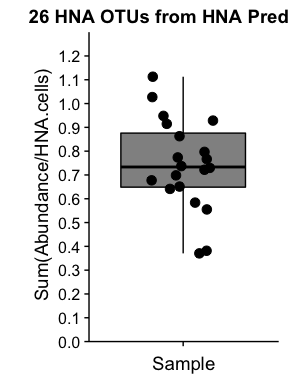
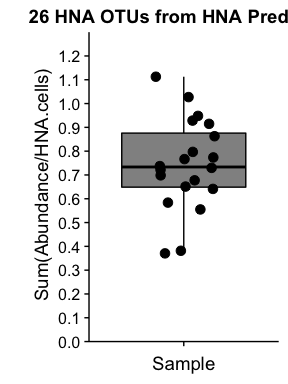
Fixing typo

diff --git a/Final/OutliersRemoved/OTU_analysis.md b/Final/OutliersRemoved/OTU_analysis.md
@@ -129,7 +129,7 @@ AbsAbund_OTUs_26 <-  absolute_otu %>%
 
 
 # Plot the absolute abundance data 
-ggplot(abs_abund_OTUs_26, aes(x = reorder(OTU, Phylum), y = Abs_Abund, fill = Phylum, color = Phylum)) +
+ggplot(AbsAbund_OTUs_26, aes(x = reorder(OTU, Phylum), y = Abs_Abund, fill = Phylum, color = Phylum)) +
   geom_boxplot(alpha = 0.5, outlier.shape = NA) +
   geom_jitter(width = 0.2, size = 3) +
   #scale_y_continuous(expand = c(0,0), limits = c(0, 2.5e+5)) +
@@ -146,10 +146,10 @@ ggplot(abs_abund_OTUs_26, aes(x = reorder(OTU, Phylum), y = Abs_Abund, fill = Ph
         axis.text.x = element_text(angle = 30, hjust = 1, vjust = 1))
 ```
 
-    ## Error in ggplot(abs_abund_OTUs_26, aes(x = reorder(OTU, Phylum), y = Abs_Abund, : object 'abs_abund_OTUs_26' not found
+<img src="OTU_analysis_files/figure-markdown_github/HNAotus-26-1.png" style="display: block; margin: auto;" />
 
 ``` r
-ggplot(abs_abund_OTUs_26, aes(x = reorder(OTU, Phylum), y = OTU_fraction_HNA, fill = Phylum, color = Phylum)) +
+ggplot(AbsAbund_OTUs_26, aes(x = reorder(OTU, Phylum), y = OTU_fraction_HNA, fill = Phylum, color = Phylum)) +
   geom_boxplot(alpha = 0.5, outlier.shape = NA) +
   geom_jitter(width = 0.2, size = 3) +
   #scale_y_continuous(expand = c(0,0), limits = c(0, 2.5e+5)) +
@@ -166,7 +166,7 @@ ggplot(abs_abund_OTUs_26, aes(x = reorder(OTU, Phylum), y = OTU_fraction_HNA, fi
         axis.text.x = element_text(angle = 30, hjust = 1, vjust = 1))
 ```
 
-    ## Error in ggplot(abs_abund_OTUs_26, aes(x = reorder(OTU, Phylum), y = OTU_fraction_HNA, : object 'abs_abund_OTUs_26' not found
+<img src="OTU_analysis_files/figure-markdown_github/HNAotus-26-2.png" style="display: block; margin: auto;" />
 
 Proportion of HNA Pool?
 =======================
